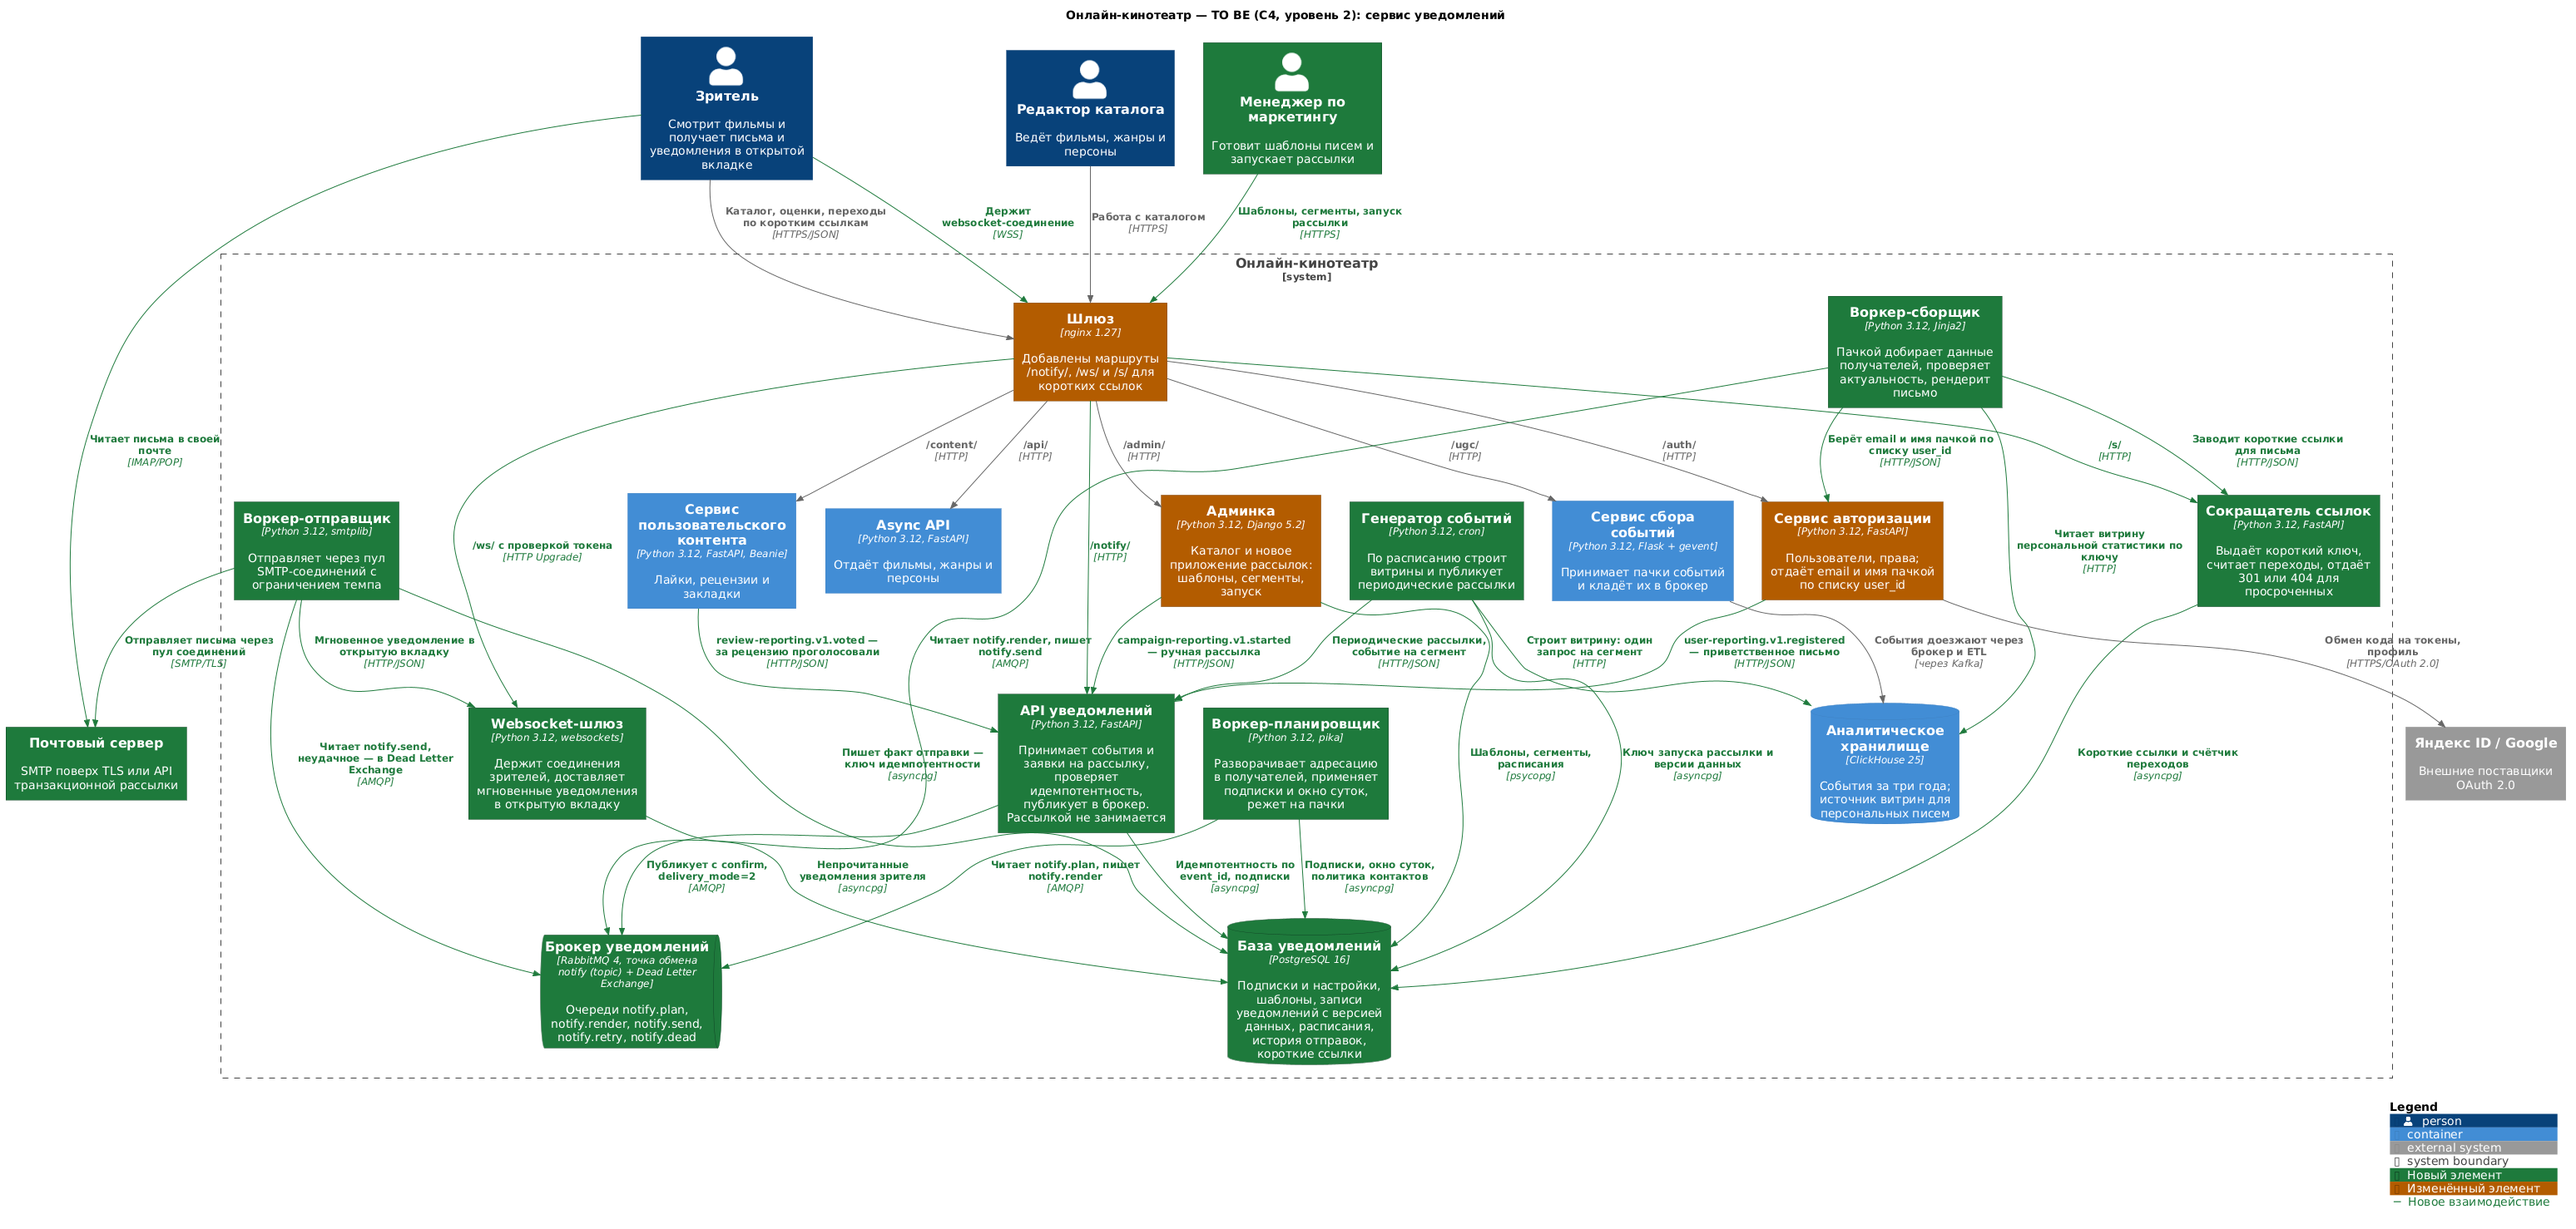
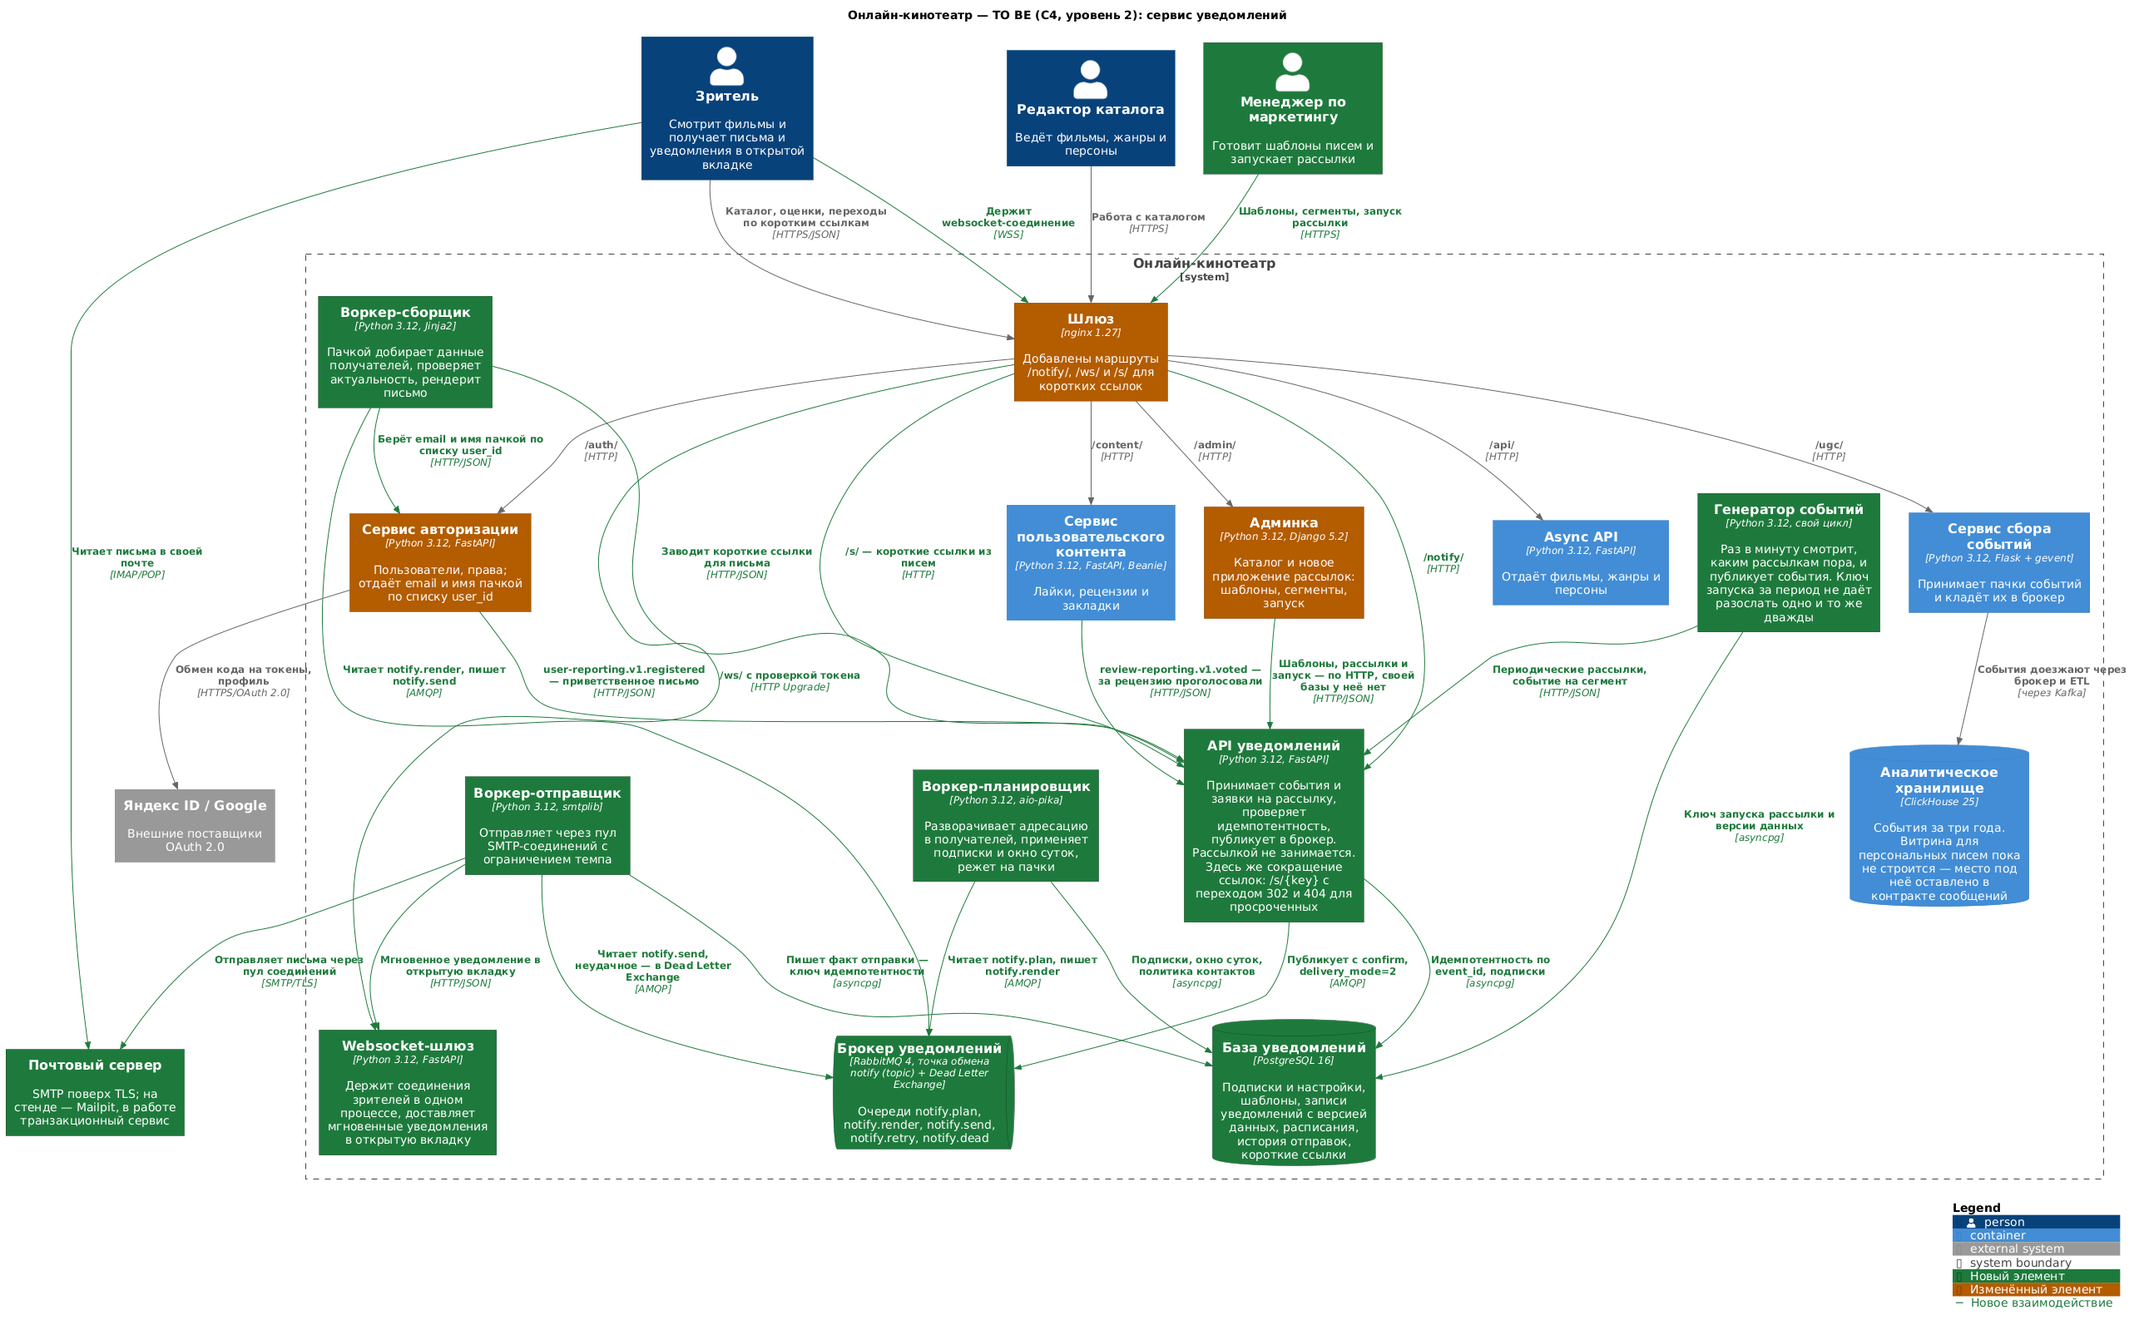
Описать реализацию сервиса уведомлений

diff --git a/docs/architecture/notifications.md b/docs/architecture/notifications.md
@@ -376,14 +376,68 @@ ADR-6…ADR-8 — в [ugc_content/research/](../../ugc_content/research/README.m
 делаются на локальном приёмнике, а на реальном сервере проверяется только
 корректность письма.
 
+### ADR-15. Клиент брокера — aio-pika, а не pika из урока
+
+**Контекст.** Урок называет `pika` самой известной библиотекой для RabbitMQ.
+Наши воркеры асинхронные: asyncpg к базе, httpx к сервису авторизации,
+aiosmtplib к почте.
+
+**Решение.** `aio-pika`.
+
+**Почему.** `pika` блокирующая. Внутри цикла событий один её вызов
+останавливает всё остальное — в том числе отправку писем, которые уже собраны.
+Протокол (AMQP 0-9-1) и брокер те же самые, меняется только клиент, поэтому
+на смысл урока это не влияет: всё, чему он учит про durable, confirm,
+`delivery_mode=2`, `X-Request-Id` в заголовках и Dead Letter Exchange,
+реализовано и проверено.
+
+**Последствия.** Именование в коде немного другое (`aio_pika.Message` вместо
+`pika.BasicProperties`), но настройки очередей задаются теми же аргументами
+AMQP, и панель управления RabbitMQ показывает ровно то же самое.
+
+### ADR-16. Websocket-шлюз — на FastAPI, а не на сервере библиотеки websockets
+
+**Контекст.** Урок показывает мини-чат на сервере библиотеки `websockets`.
+Нашему шлюзу нужны две вещи сразу: websocket для зрителей и обычный
+HTTP-эндпоинт `POST /internal/push`, которым воркер-отправщик просит доставить
+сообщение.
+
+**Решение.** Одно приложение FastAPI: `@app.websocket` для зрителей,
+обычные маршруты для служебной доставки и проверки живости.
+
+**Почему.** У `websockets` есть `process_request`, который умеет отвечать на
+обычные запросы, но **не читает их тело**: служебная доставка с телом JSON
+через него не проходит — соединение рвётся раньше. Пришлось бы поднимать
+второй сервер на втором порту. Выяснилось это функциональным тестом, а не
+рассуждением.
+
+**Последствия.** Шлюз работает ровно в **одном** процессе: реестр открытых
+соединений живёт в памяти, и с двумя воркерами зритель подключился бы к
+одному, а доставка попала бы во второй. Число воркеров задано явно
+(`workers=1`). Горизонтальное масштабирование шлюза потребует общей шины между
+копиями (Redis pub/sub) — этого пока нет, и для учебной нагрузки не нужно.
+
 ---
 
-## Что дальше
+## Что получилось в реализации
 
-Документ — проектная часть спринта, её нужно **согласовать с наставником до
-реализации**: чек-лист задания прямо просит согласовать своё видение, а
-задания на требования и архитектуру в прошлых спринтах были блокирующими.
+Проект реализован; расхождения с этим документом и причины:
 
-После согласования реализация разбивается по компонентам из таблицы выше;
-websocket-шлюз и сокращатель ссылок — отдельные задачи, они нужны по чек-листу
-проектного задания, но на путь email-уведомления не влияют.
+| Было в проекте | Стало | Почему |
+|---|---|---|
+| Сокращатель ссылок — отдельный контейнер | модуль сервиса уведомлений (`/notify/api/v1/links` и `/s/{key}`) | у него общая база с уведомлениями и ничтожная нагрузка; отдельный процесс дал бы ещё один контейнер в эксплуатации и ничего больше. Он уже изолирован за `ShortLinkRepository`, и вынести его — работа на час, когда появится причина |
+| Витрина персональной статистики в ClickHouse | ключ витрины предусмотрен в контракте сообщений (`dataset_key`), сама витрина не строится | для писем «итоги месяца» нужна аналитика по просмотрам, которой в учебном дампе нет. Место под неё оставлено, чтобы не переделывать контракт |
+| Сегменты произвольного вида | сегмент — список зрителей или «все» | построение сегментов («кто смотрел детективы») — работа аналитики, урок «Единая политика контактов» выводит её за рамки задачи |
+
+Остальное сделано как описано: конвейер из трёх воркеров, RabbitMQ с Dead
+Letter Exchange, ключи идемпотентности, окно тишины в часовом поясе зрителя,
+единый шаблонизатор с проверкой при сохранении, админ-панель рассылок в
+существующей админке.
+
+Реализацию описывает [notifications/README.md](../../notifications/README.md).
+
+## Что осталось согласовать с наставником
+
+Чек-лист задания прямо просит согласовать своё видение, если оно отличается от
+предложенной модели. Отличия перечислены выше; отдельно стоит обсудить выбор
+RabbitMQ при уже работающей Kafka (ADR-9) и место сокращателя ссылок.
